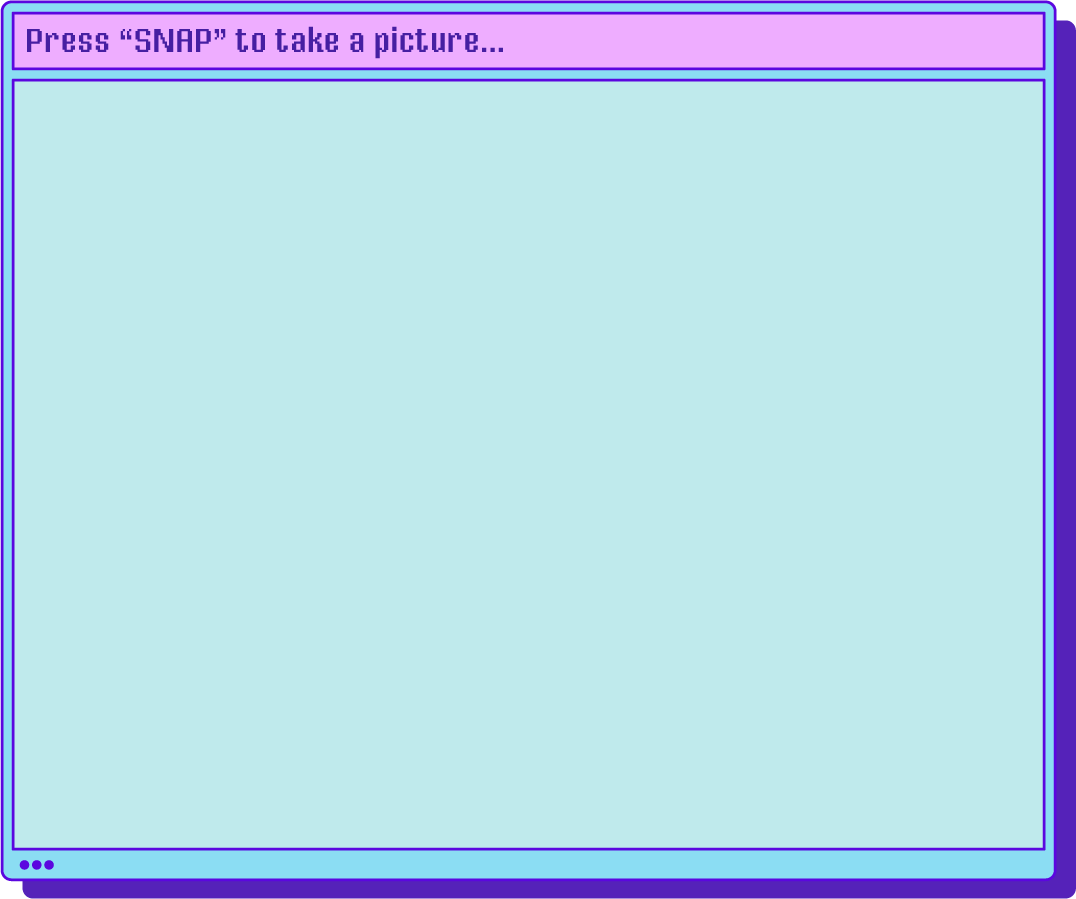
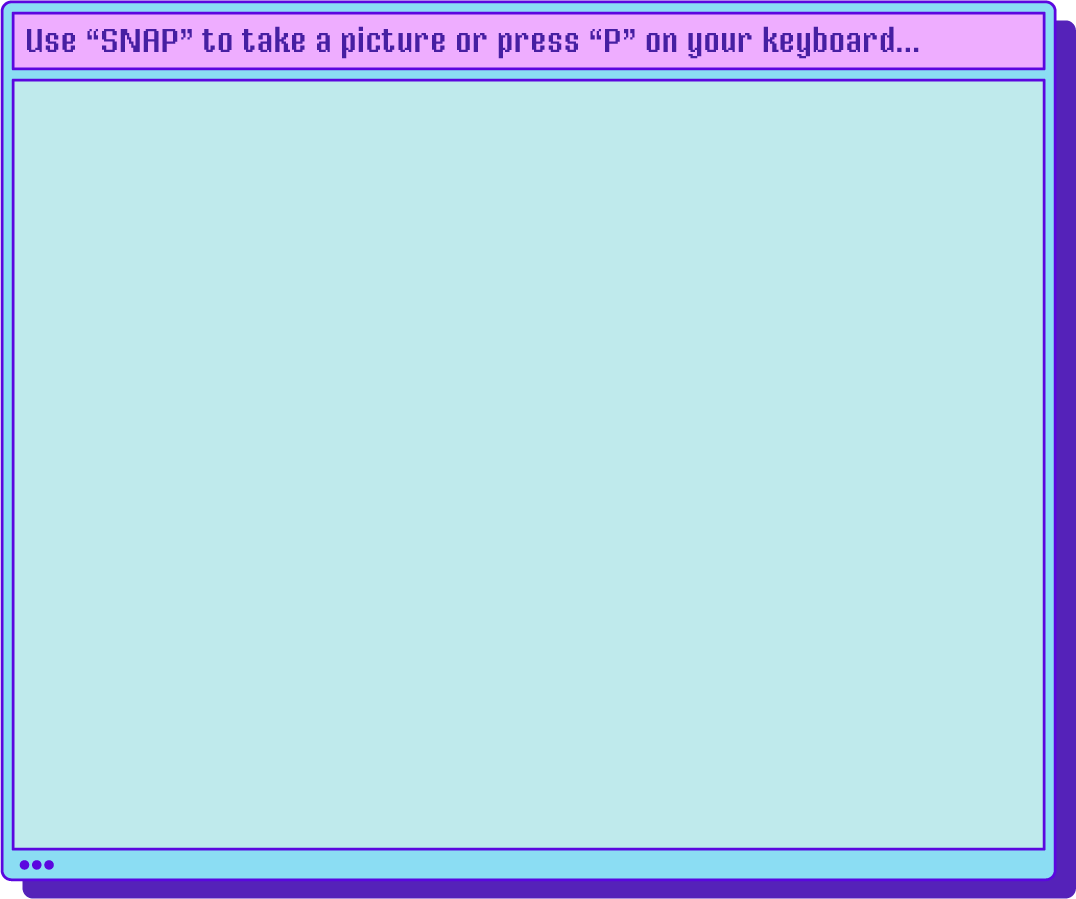
MY LOVE FINDER
A virtual machine that associates you face to your perfect soul mate.

Changed region(s): [[0.0307, 0.0311, 0.8587, 0.0623]]

diff --git a/sketch.js b/sketch.js
@@ -5,8 +5,9 @@ var snapshot = [];
 //VAR TO CREATE BUTTONS
 var button;
 var button2;
+var button3;
 
-// let gif;
+let song;
 
 // VARIABLES FOR RANDOM IMAGE PICKER
 let cards = []; // CREATE AN EMPTY ARRAY TO STORE VARIABLES
@@ -23,6 +24,8 @@ function preload() {
     myPicContainer = loadImage("./assets/pic-container.png");
     myResultContainer = loadImage("./assets/result-container.png");
 
+    song = loadSound("./assets/yay.mp3");
+
     // gif = loadImage("./assets/gif-anim.gif");
     // the most efficient way to store images is by using a for loop and concatenation
     for (let i = 0; i < numCards; i++) {
@@ -38,13 +41,13 @@ function setup() {
     video = createCapture(VIDEO); //access live webcam 
 
     button = createImg('./assets/retry.svg');
-    button.position(width/4.3, height/1.4);
-    button.size(92, 85);
+    button.position(width/4.3, height/1.42);
+    button.size(100, 93);
     button.mousePressed(restartBin);
 
     button2 = createImg('./assets/save.svg');
-    button2.position(width/1.4, height/1.4);
-    button2.size(92, 85);
+    button2.position(width/1.4, height/1.42);
+    button2.size(100, 93);
     button2.mousePressed(saveFrame);
 
     button3 = createImg('./assets/snap.svg');
@@ -78,11 +81,22 @@ function takesnap() {
     print(snapshot);
 }
 
+function keyPressed() {
+    if (key === 'p') {
+        takesnap();
+        song.play();
+        stopRunningDraw = 0;
+        
+        setTimeout(function(){
+            noLoop();
+        }, 1000);
+    } 
+}
 
 
 function randomPicker() {
         takesnap();
-
+        song.play();
         stopRunningDraw = 0;
         
         setTimeout(function(){
